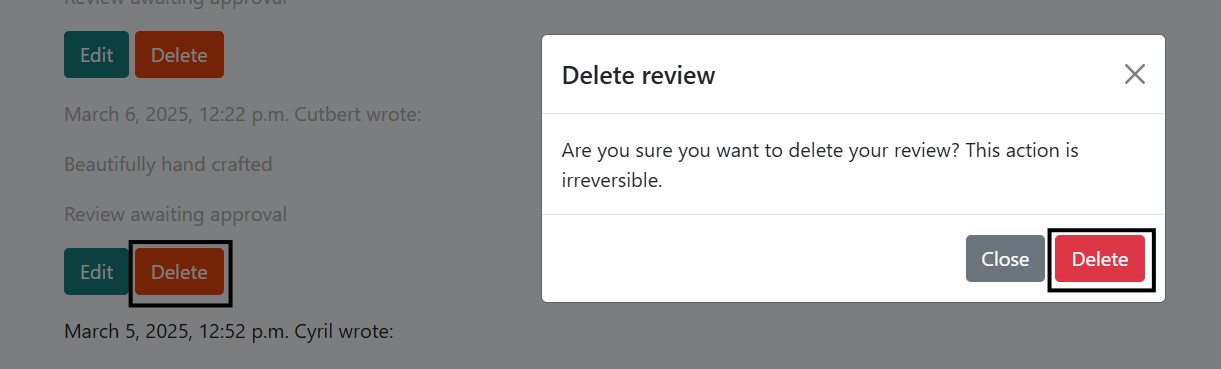
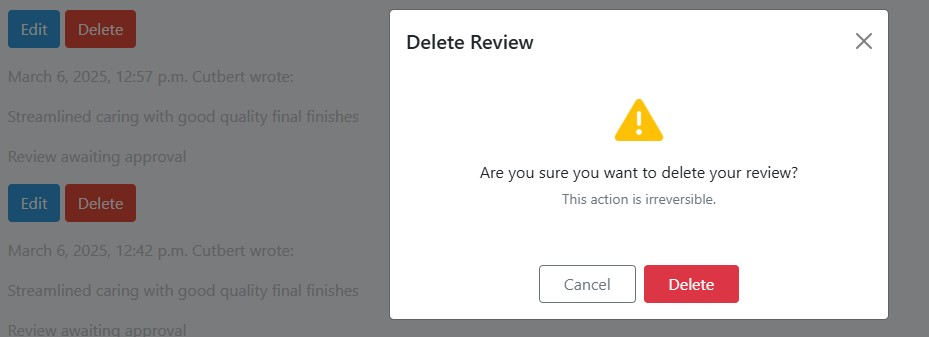
Add resolved bug to README.md

diff --git a/store/templates/store/product_detail.html b/store/templates/store/product_detail.html
@@ -103,21 +103,20 @@
     </div>
 </div>
 <div class="modal fade" id="deleteModal" tabindex="-1" aria-labelledby="deleteModalLabel" aria-hidden="true">
-    <div class="modal-dialog">
+    <div class="modal-dialog modal-dialog-centered">
         <div class="modal-content">
-            <div class="modal-header">
-                <h5 class="modal-title" id="deleteModalLabel">Delete review</h5>
-                <button type="button" class="btn-close"
-                data-bs-dismiss="modal" aria-label="Close"></button>
+            <div class="modal-header border-0">
+                <h5 class="modal-title" id="deleteModalLabel">Delete Review</h5>
+                <button type="button" class="btn-close" data-bs-dismiss="modal" aria-label="Close"></button>
             </div>
-            <div class="modal-body">
-                Are you sure you want to delete your review?
-                This action is irreversible.
+            <div class="modal-body text-center py-4">
+                <i class="fas fa-exclamation-triangle text-warning mb-3" style="font-size: 3rem;"></i>
+                <p class="mb-1">Are you sure you want to delete your review?</p>
+                <p class="text-muted small">This action is irreversible.</p>
             </div>
-            <div class="modal-footer">
-                <button type="button" class="btn btn-secondary"
-                data-bs-dismiss="modal">Close</button>
-                <a id="deleteConfirm" href="#" class="btn btn-danger">Delete</a>
+            <div class="modal-footer border-0 justify-content-center">
+                <button type="button" class="btn btn-outline-secondary px-4" data-bs-dismiss="modal">Cancel</button>
+                <a id="deleteConfirm" href="#" class="btn btn-danger px-4">Delete</a>
             </div>
         </div>
     </div>

diff --git a/templates/base.html b/templates/base.html
@@ -51,13 +51,13 @@
             <div class="collapse navbar-collapse justify-content-center" id="navbarNavDropdown">
                 <ul class="navbar-nav">
                     <li class="nav-item">
-                        <a class="nav-link {% if request.path == home_url %}active{% endif %}" aria-current="page"
+                        <a class="nav-link {% if request.path == home_url %}active" aria-current="page{% endif %}"
                             href="{% url 'home' %}">
                             <i class="fas fa-home"></i> Home
                         </a>
                     </li>
                     <li class="nav-item">
-                        <a class="nav-link {% if request.path == exhibition_ulr %}active{% endif %}" aria-current="page"
+                        <a class="nav-link {% if request.path == exhibition_ulr %}active" aria-current="page{% endif %}"
                             href="{% url 'exhibition' %}">
                             <i class="fas fa-palette"></i> Exhibition
                         </a>

diff --git a/exhibition/models.py b/exhibition/models.py
@@ -14,6 +14,8 @@ class Exhibition(models.Model):
 
     Also includes a string representation and Meta options for
     verbose name and ordering.
+
+    Template: exhibition/exhbition.html
     """
     STATUS_CHOICES = [
         (0, 'Draft'),
@@ -47,6 +49,8 @@ class ExhibitionRegistration(models.Model):
     Meta:
         verbose_name (str):  Model human-readable name.
         ordering (list): Ordering by registration_date.
+
+    Template: exhibition/exhbition.html
     """
     MAX_LENGTH_BUSINESS_NAME = 255
     MAX_LENGTH_ADDRESS = 255

diff --git a/store/models.py b/store/models.py
@@ -19,6 +19,8 @@ class Product(models.Model):
 
     Methods:
         __str__: Returns a string representation of the product.
+
+    Template: store/product_detail.html
     """
 
     name = models.CharField(
@@ -59,6 +61,8 @@ class Review(models.Model):
     Meta:
         ordering: Review creation date in descending order.
         verbose_name: Name for model in admin interface.
+
+    Template: store/product_detail.html
     """
     product = models.ForeignKey(
         Product, on_delete=models.CASCADE, verbose_name='reviews'

diff --git a/store/views.py b/store/views.py
@@ -10,7 +10,8 @@ from .forms import ReviewForm
 
 
 class product_list(generic.ListView):
-    """View to list of published products with pagination."""
+    """View to list of published products with pagination.
+    """
 
     template_name = "store/index.html"
     paginate_by = 12

diff --git a/README.md b/README.md
@@ -162,9 +162,7 @@ Project can be improved by adding ordering page where unregistered site users ca
 #### Bugs Resolved
 |Bug|   Description |Solution Applied|Result|
 |:------------|:----------------|:-------------|:------------|
-#### Bugs Unresolved
-|Bug|   Description |Solution Applied|Result|
-|:------------|:----------------|:-------------|:------------|
+|Exhibition page image wasn’t rendering locally but dev tool was pointing at the image ![bug1](./static/images/readme-images/bugs/bug1.jpg) ![bug2](./static/images/readme-images/bugs/bug2.jpg)|At the early stage of the project before downloading cloudinary for live serving of images, exhibition image wasn’t rendering even with image field on model specifying where the image file should uploaded and html code on exhibition.html stating the local image source.| Rename image file. Update html image source to step through the folders hierarchy locally. Download cloudinary. Update model image field to cloudinary  and set default to placeholder. Use DTL if/else statement to reeference local image source and cloudinary image source on exhibition.html ![bug5](./static/images/readme-images/bugs/bug5.jpg)|![bug-fix](./static/images/readme-images/bugs/bug-fix.jpg)|
 ### Libraries
 ## Deployment
 ### Deployment Steps
@@ -190,3 +188,5 @@ Project can be improved by adding ordering page where unregistered site users ca
 * [stackflow](https://stackoverflow.com/questions)
 ### Text Content
 * Wikipedia
+### Product images and descriptions
+* [Handicraft-store](https://www.handicraftstore.co.uk/)
